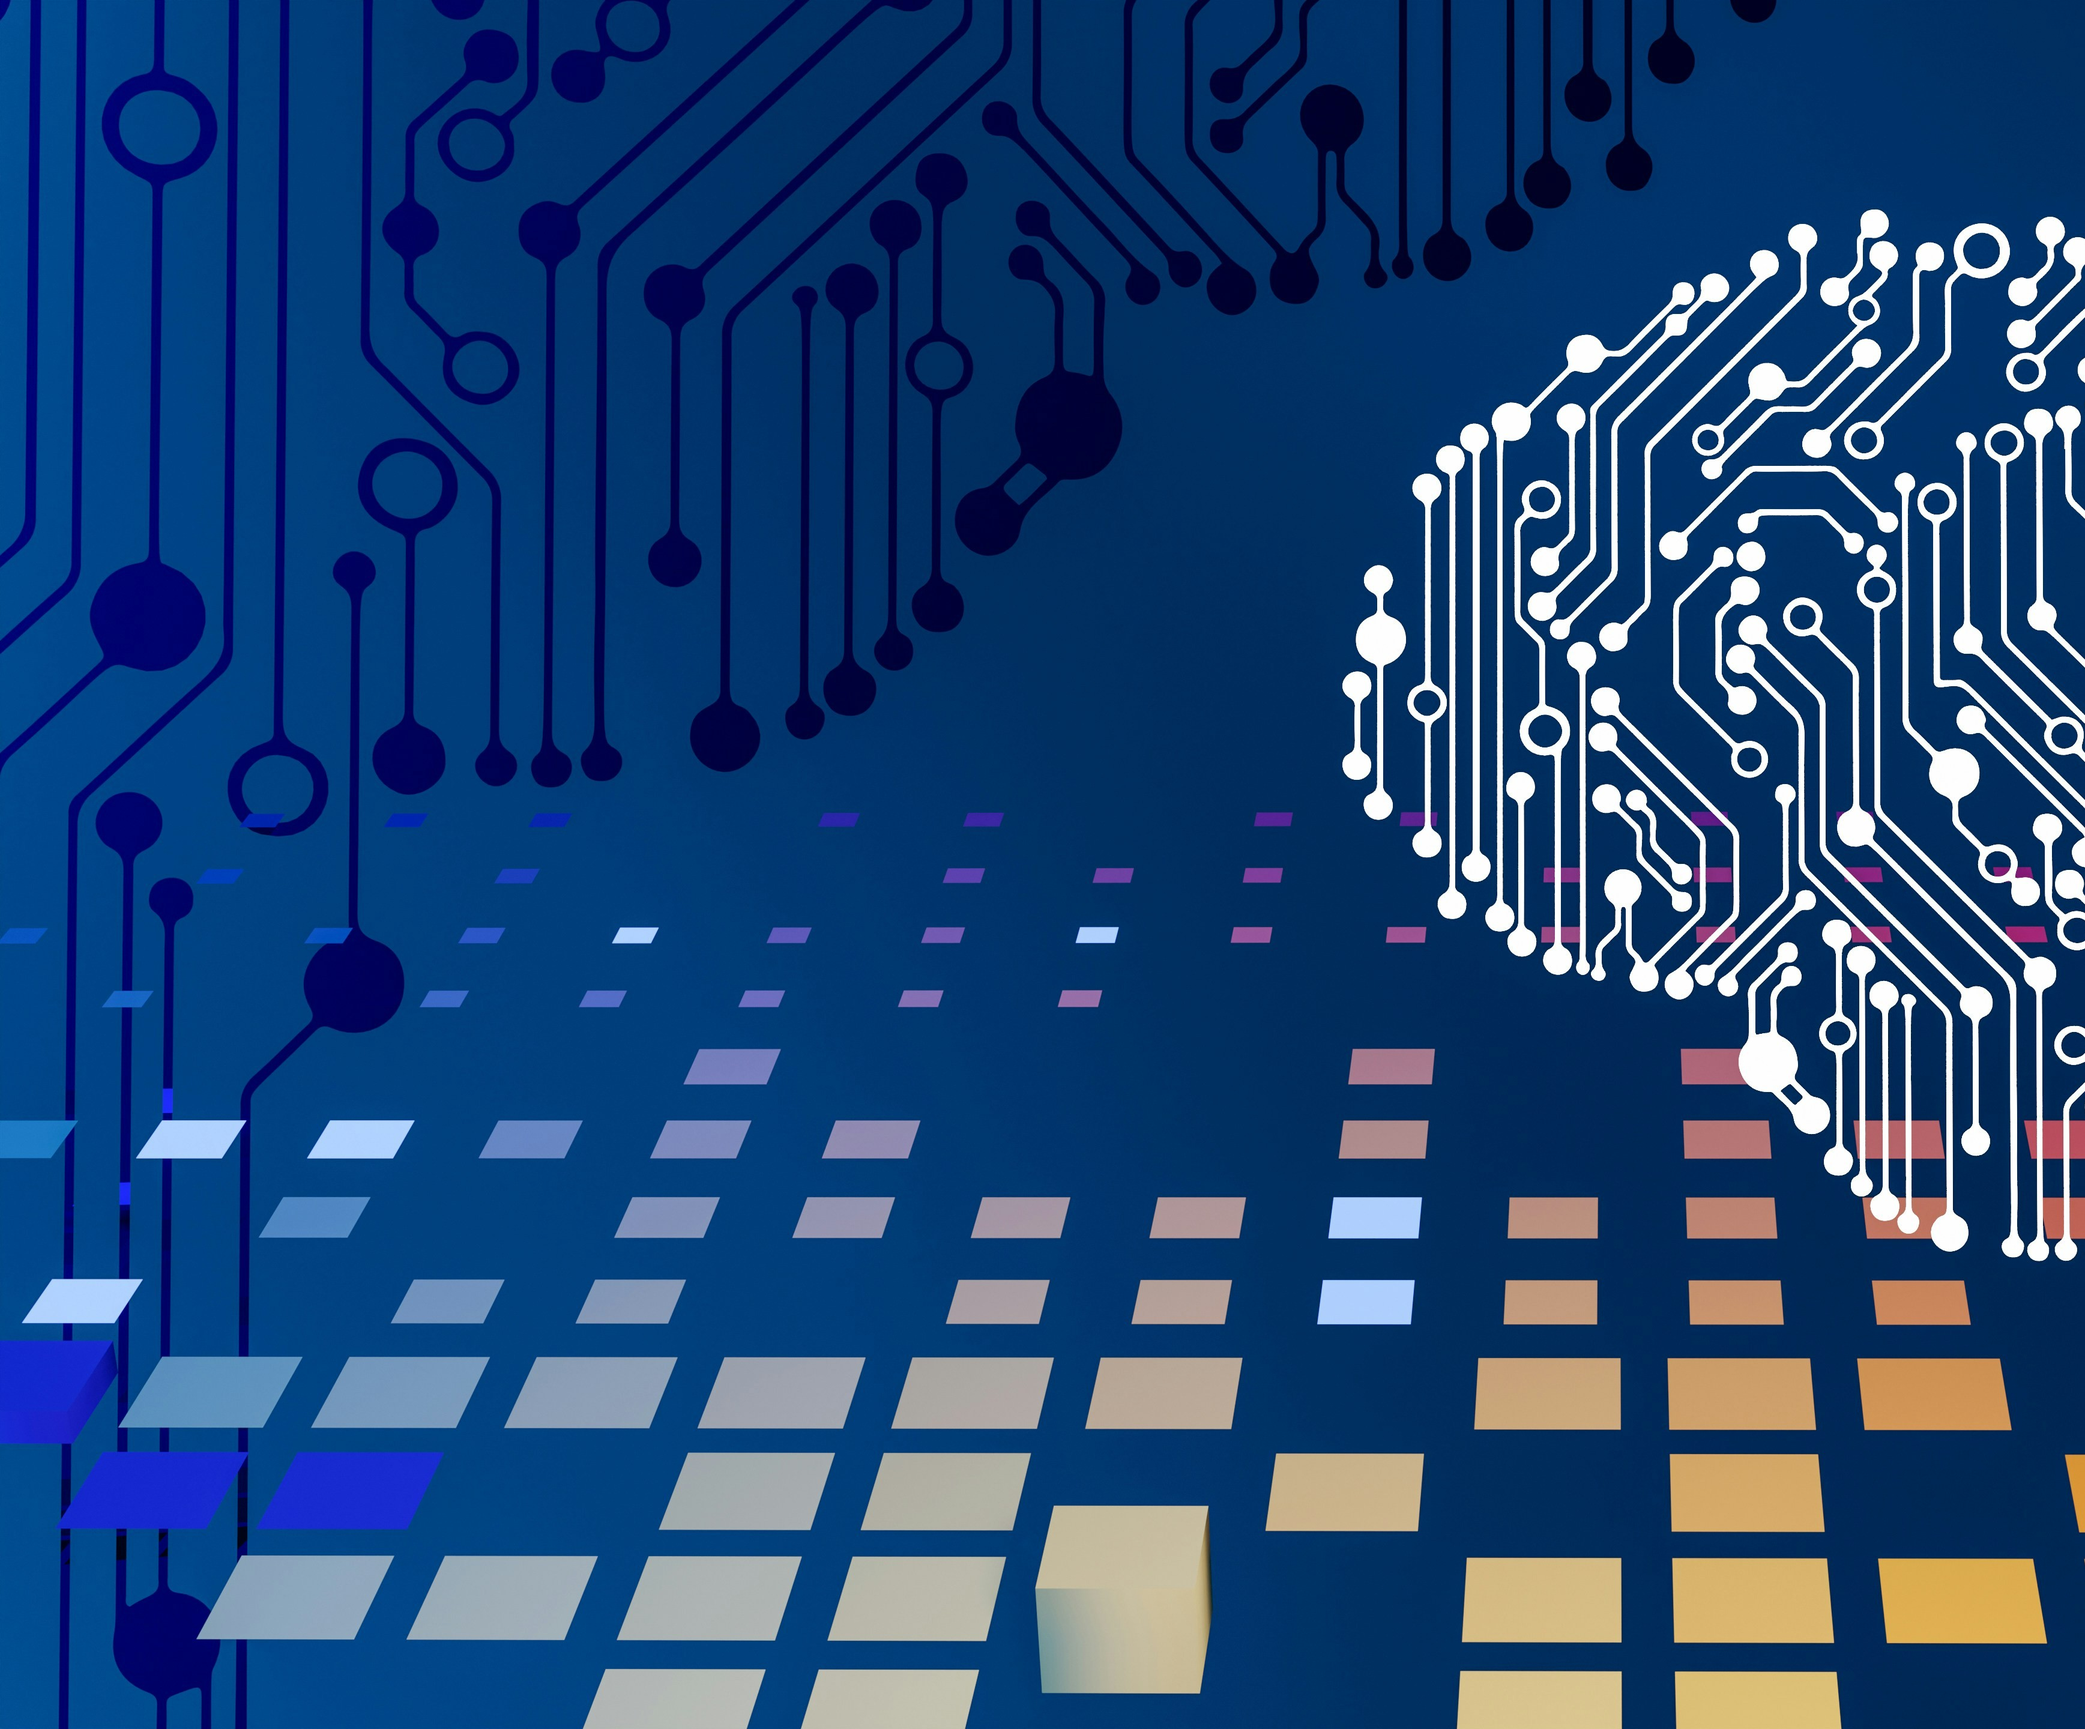
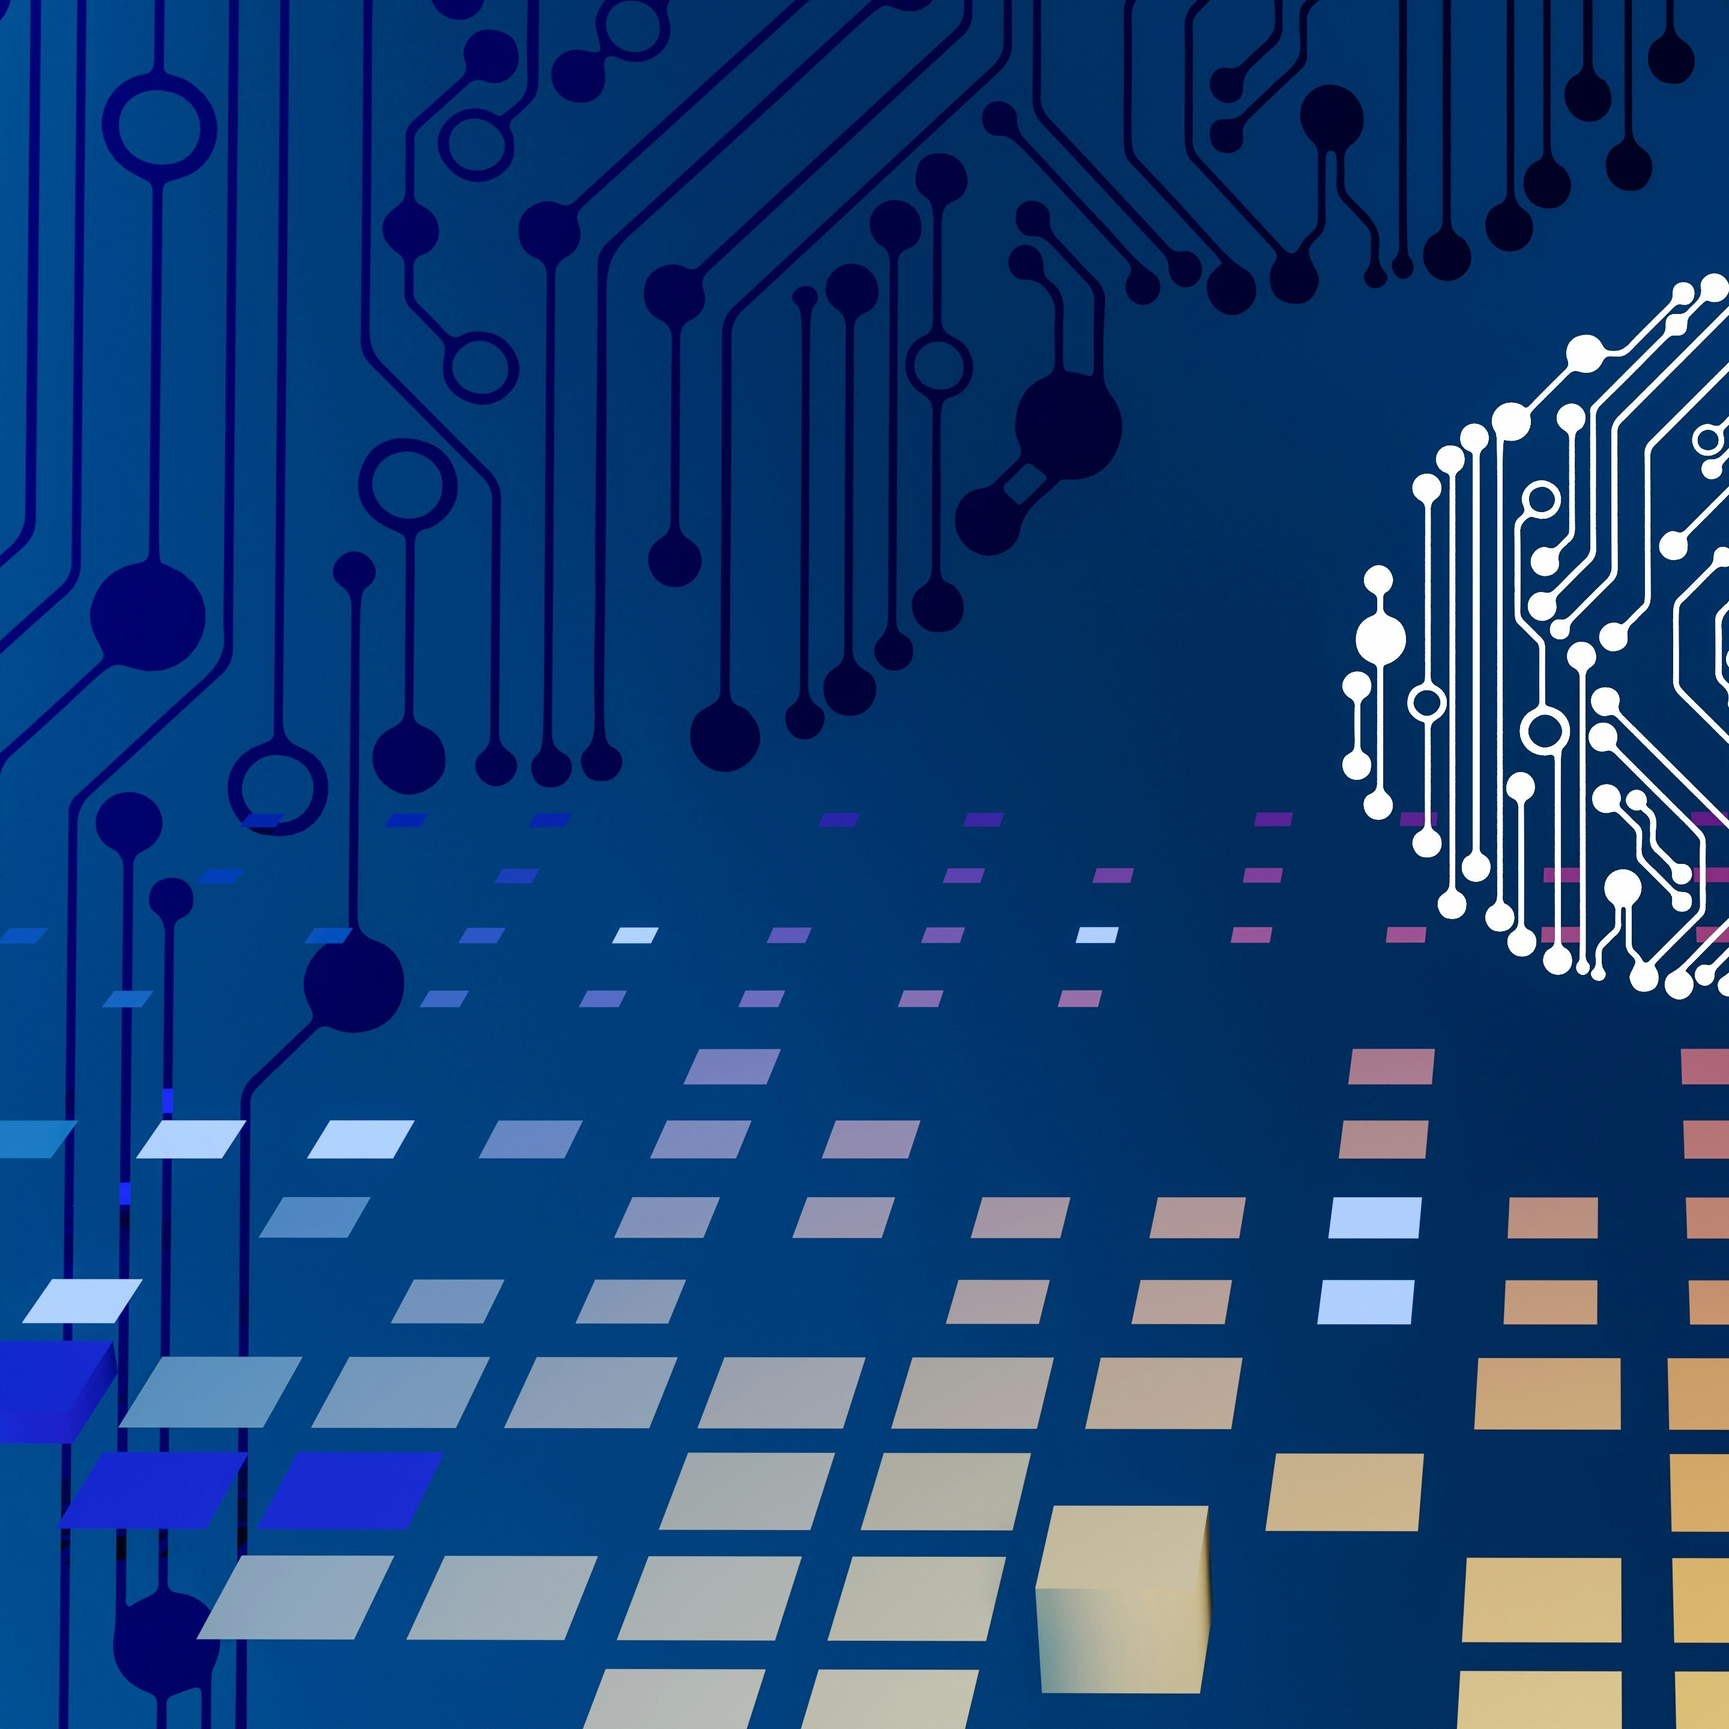
update navbar

diff --git a/index.html b/index.html
@@ -136,13 +136,13 @@
 
 
 <section id="about" class="section about-section slide-left">
-  <p class="headline">Why choose FDL?</p>
+  <p class="headline">Why choose Federated Learning?</p>
   <h2 class="about-title">Unlock the Full Potential of Your Business</h2>
 
   <div class="about-description">
-    <p>FDL empowers your business with cutting-edge tools and insights, enabling faster innovation and smarter decisions.</p>
+    <p>Federated Learning empowers your business with cutting-edge tools and insights, enabling faster innovation and smarter decisions.</p>
     <p>Optimize your development process, lower operational costs, and deliver superior user experiences.</p>
-    <p>Join a thriving community of forward-thinking businesses transforming their future with FDL.</p>
+    <p>Join a thriving community of forward-thinking businesses transforming their future with Federated Learning.</p>
   </div>
 
   <div class="reason-grid enhanced-reason-grid">
@@ -271,7 +271,8 @@
     <!-- Card 3 -->
     <div class="student-post-card">
       <div class="card-text">
-        <h3>Publication Title 3</h3>
+        <h3>Interactive Federated AI Training Platform</h3>
+        <p>Train, test, and manage machine learning models—securely, locally, and intuitively.</p>
         <p class="pub-date">May 4th, 2025</p>
       </div>
       <div class="card-image">
@@ -283,7 +284,8 @@
     <!-- Card 4 -->
     <div class="student-post-card">
       <div class="card-text">
-        <h3>Publication Title 4</h3>
+        <h3>MLPRALS: A Readiness and Guidance Framework for Machine Learning Adoption in Logistics SMEs</h3>
+        <p>Helping logistics-focused SMEs take practical steps toward AI adoption—securely, strategically, and efficiently.</p>
         <p class="pub-date">May 4th, 2025</p>
       </div>
       <div class="card-image">

diff --git a/style.css b/style.css
@@ -72,8 +72,9 @@ body {
 
 .navbar a.active,
 .navbar a:hover {
-  background-color: #d9d3d3;
+  background-color: white;
   border-radius: 5px;
+  color: #0c4da2;
 }
 
 .section {
@@ -651,6 +652,11 @@ row-gap: 5rem;
   font-family: 'Lora', serif;
   font-size: 1.2rem;
   margin-bottom: 0.5rem;
+}
+
+.card-text p {
+      font-family: 'Poppins', sans-serif;
+      font-size: 1rem;
 }
 
 .pub-date {
